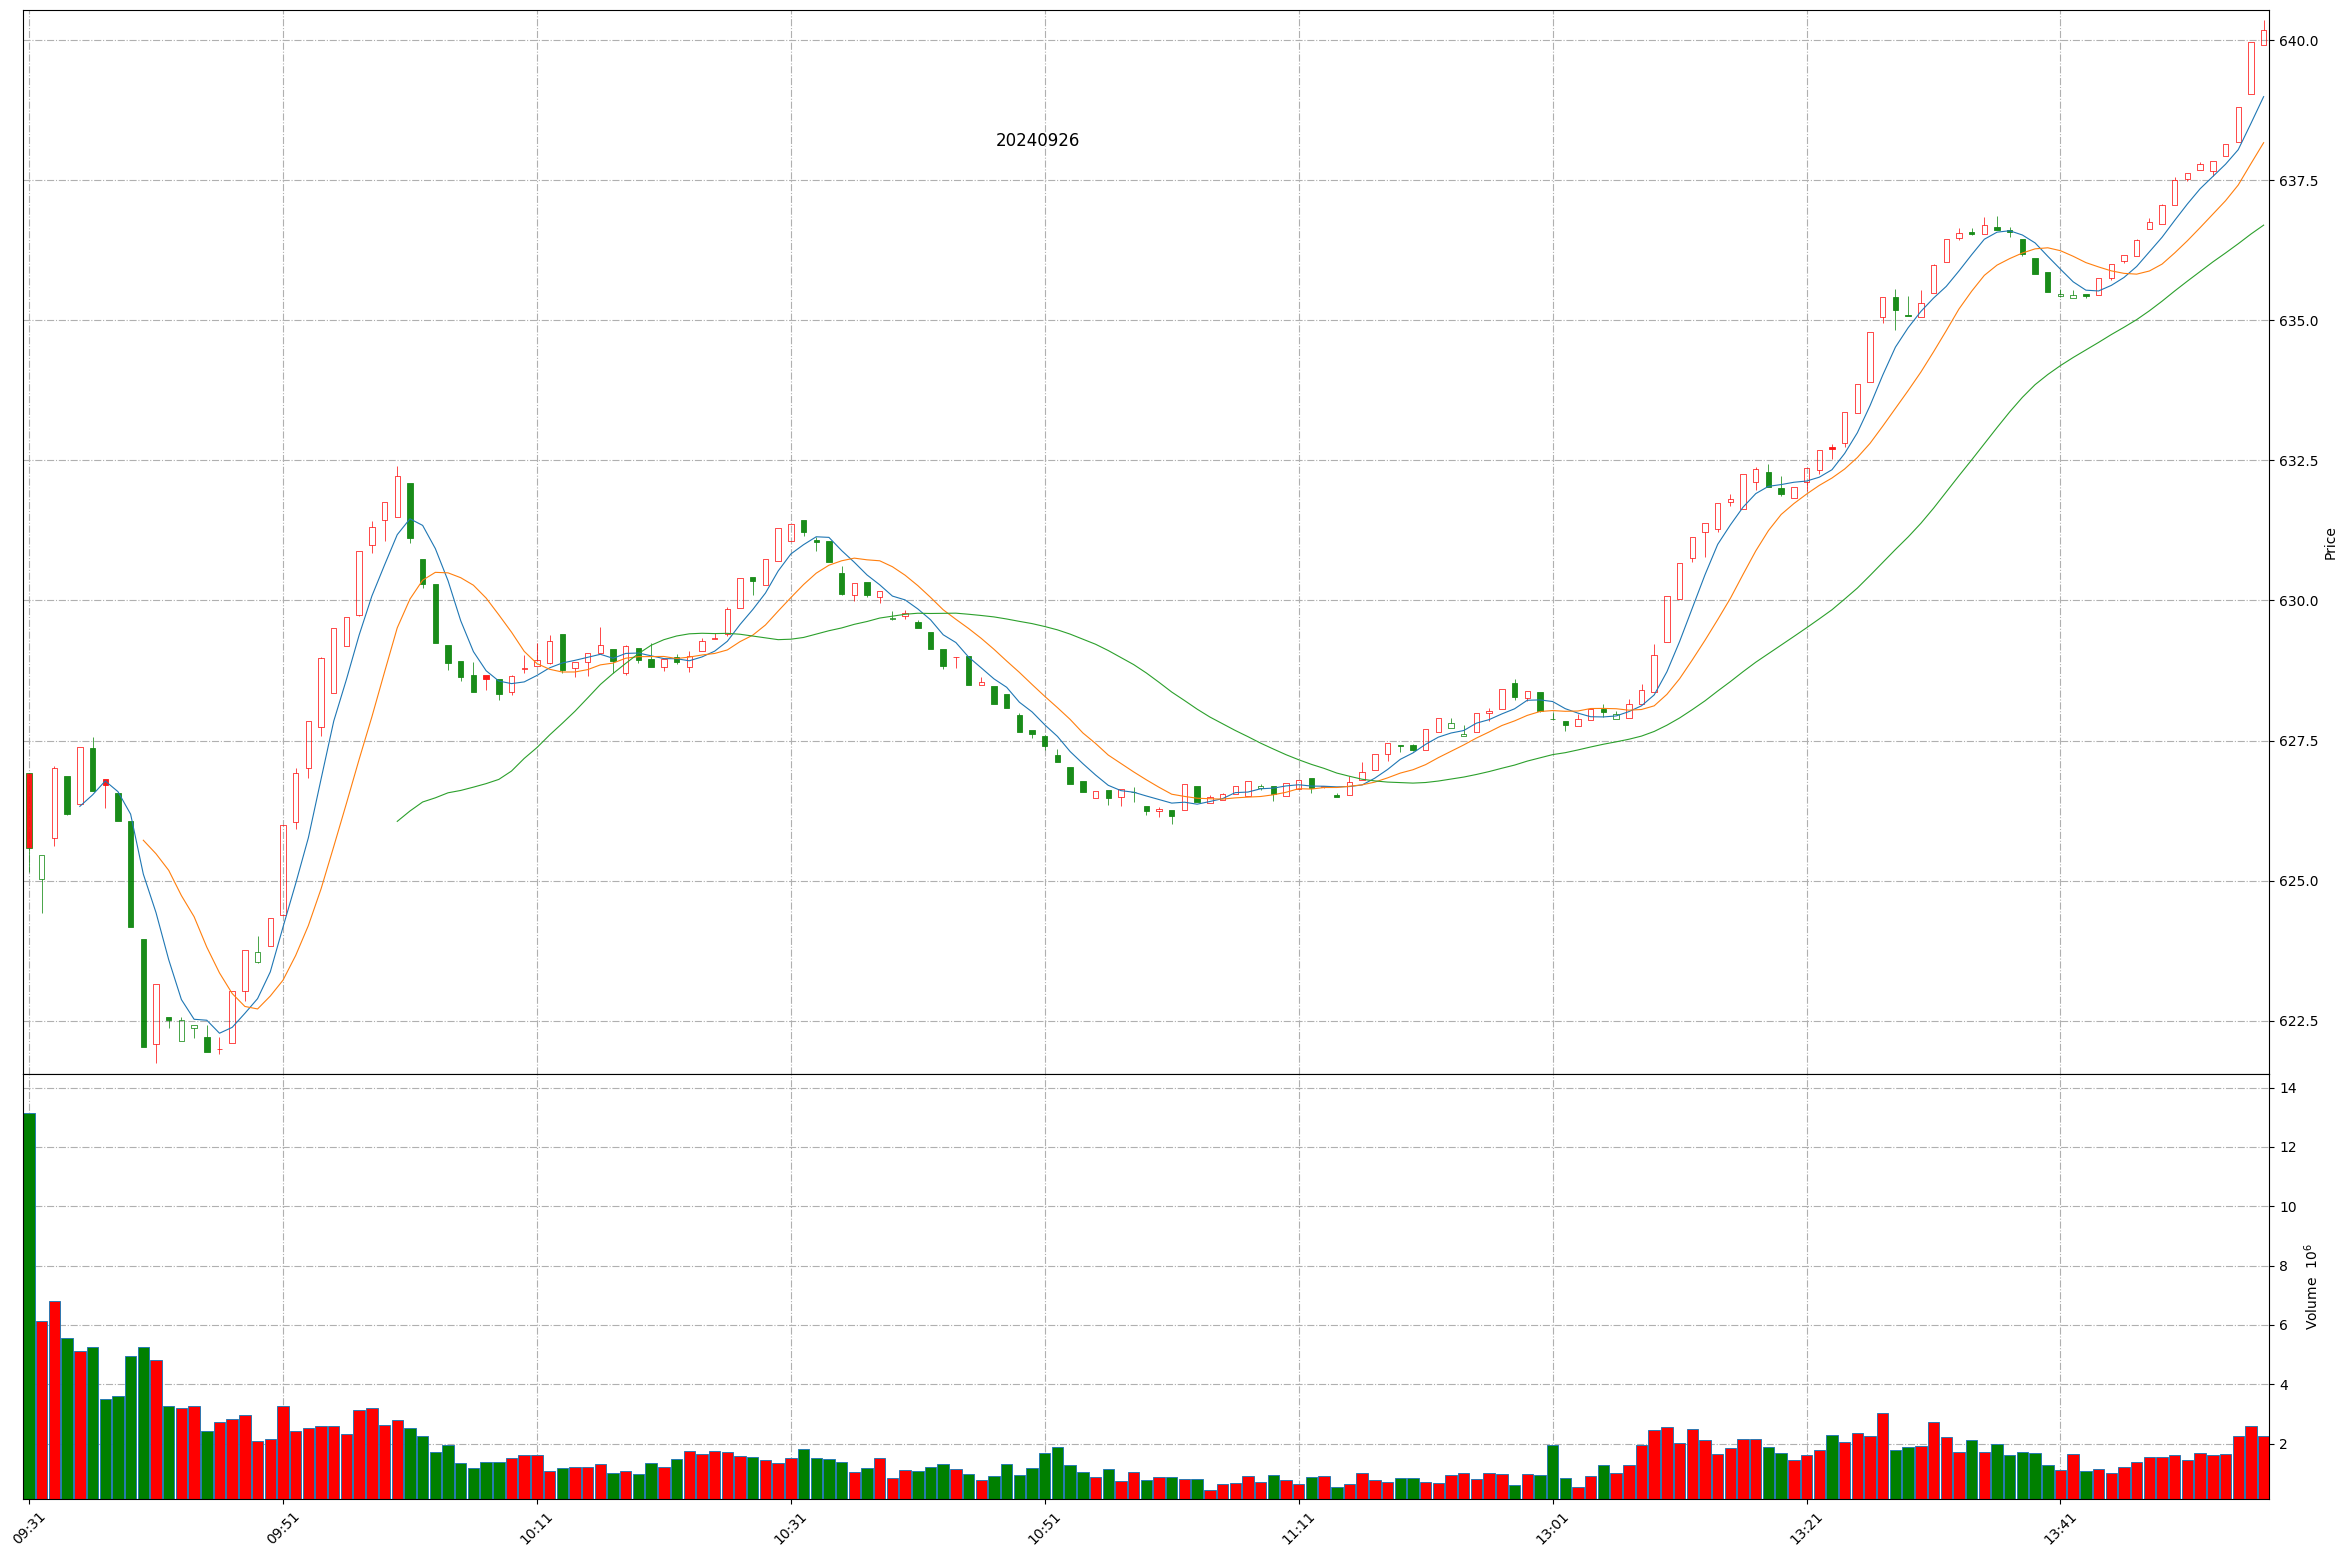
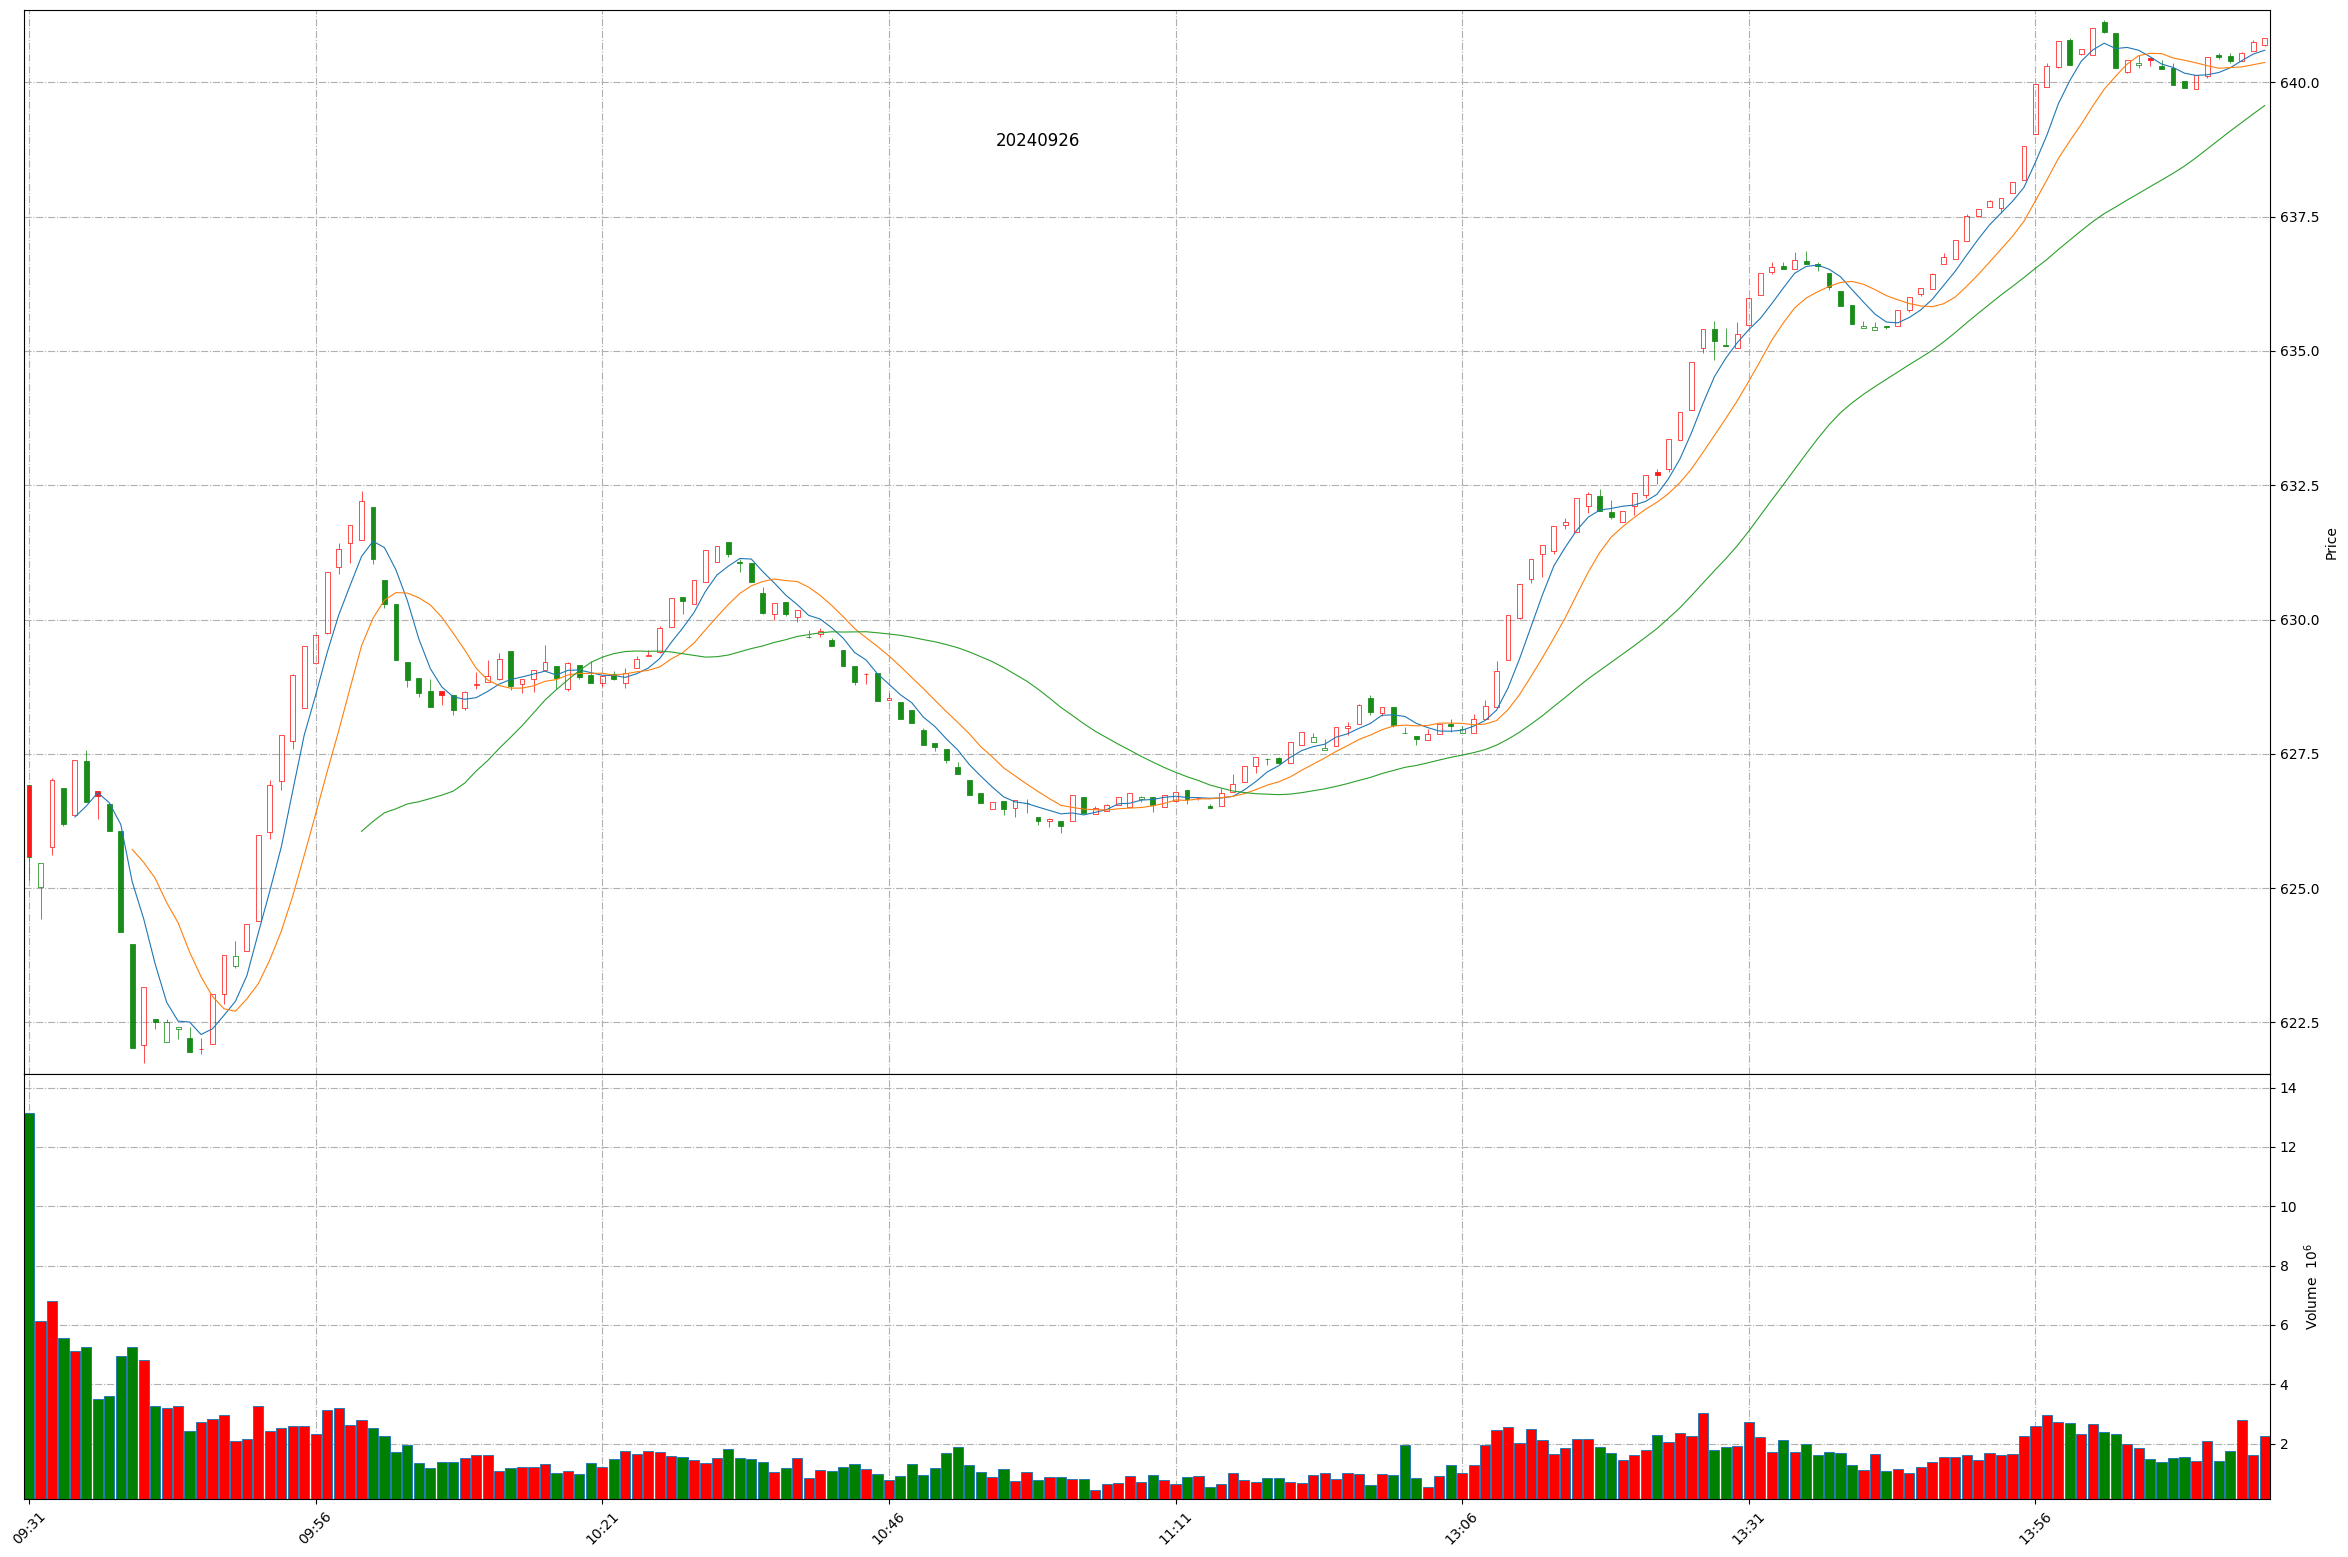
Github action update at 2024-09-26 14:16:11.

diff --git a/README.md b/README.md
@@ -1,11 +1,11 @@
 
 # Daily-A-share-market-quotes 每日 A 股指数（5min 更新）- 20240926
 
-### 上证指数 20240926 13:56
+### 上证指数 20240926 14:16
 ![](./fig/2024/9/20240926-sh000001.png)
 
-### 深证成指 20240926 13:56
+### 深证成指 20240926 14:16
 ![](./fig/2024/9/20240926-sz399001.png)
 
-### 北证50 20240926 13:56
+### 北证50 20240926 14:16
 ![](./fig/2024/9/20240926-bj899050.png)
